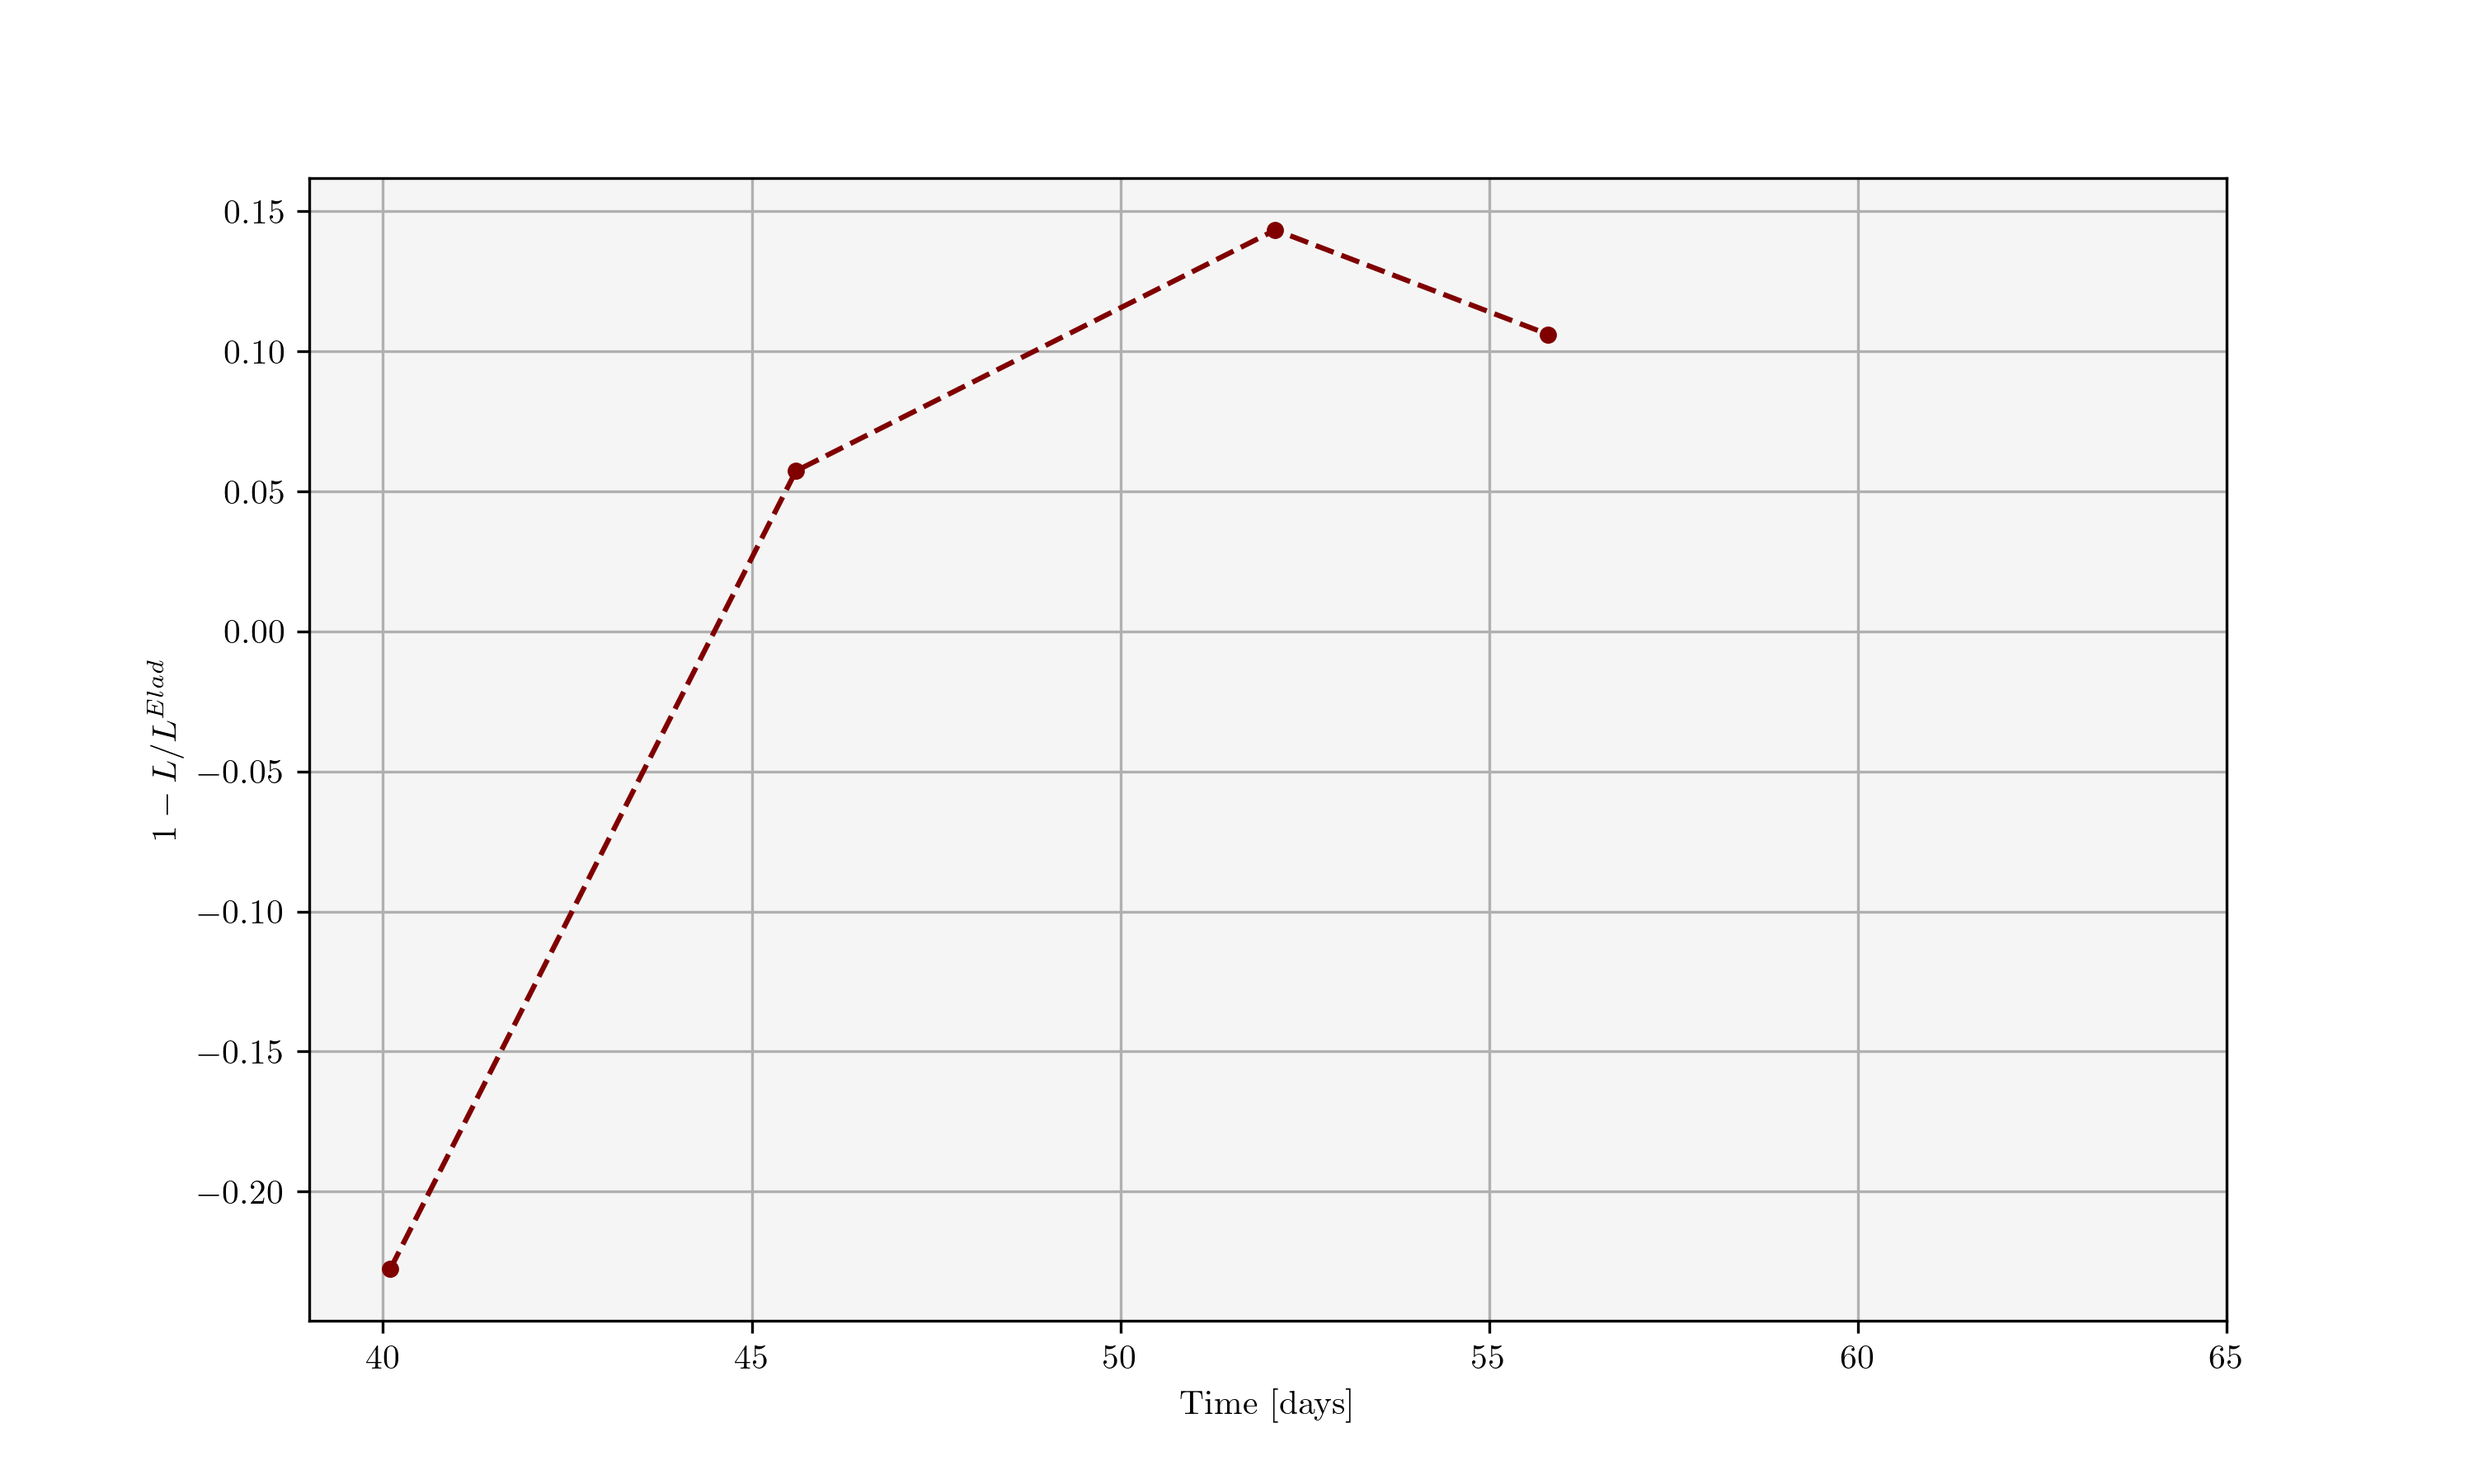
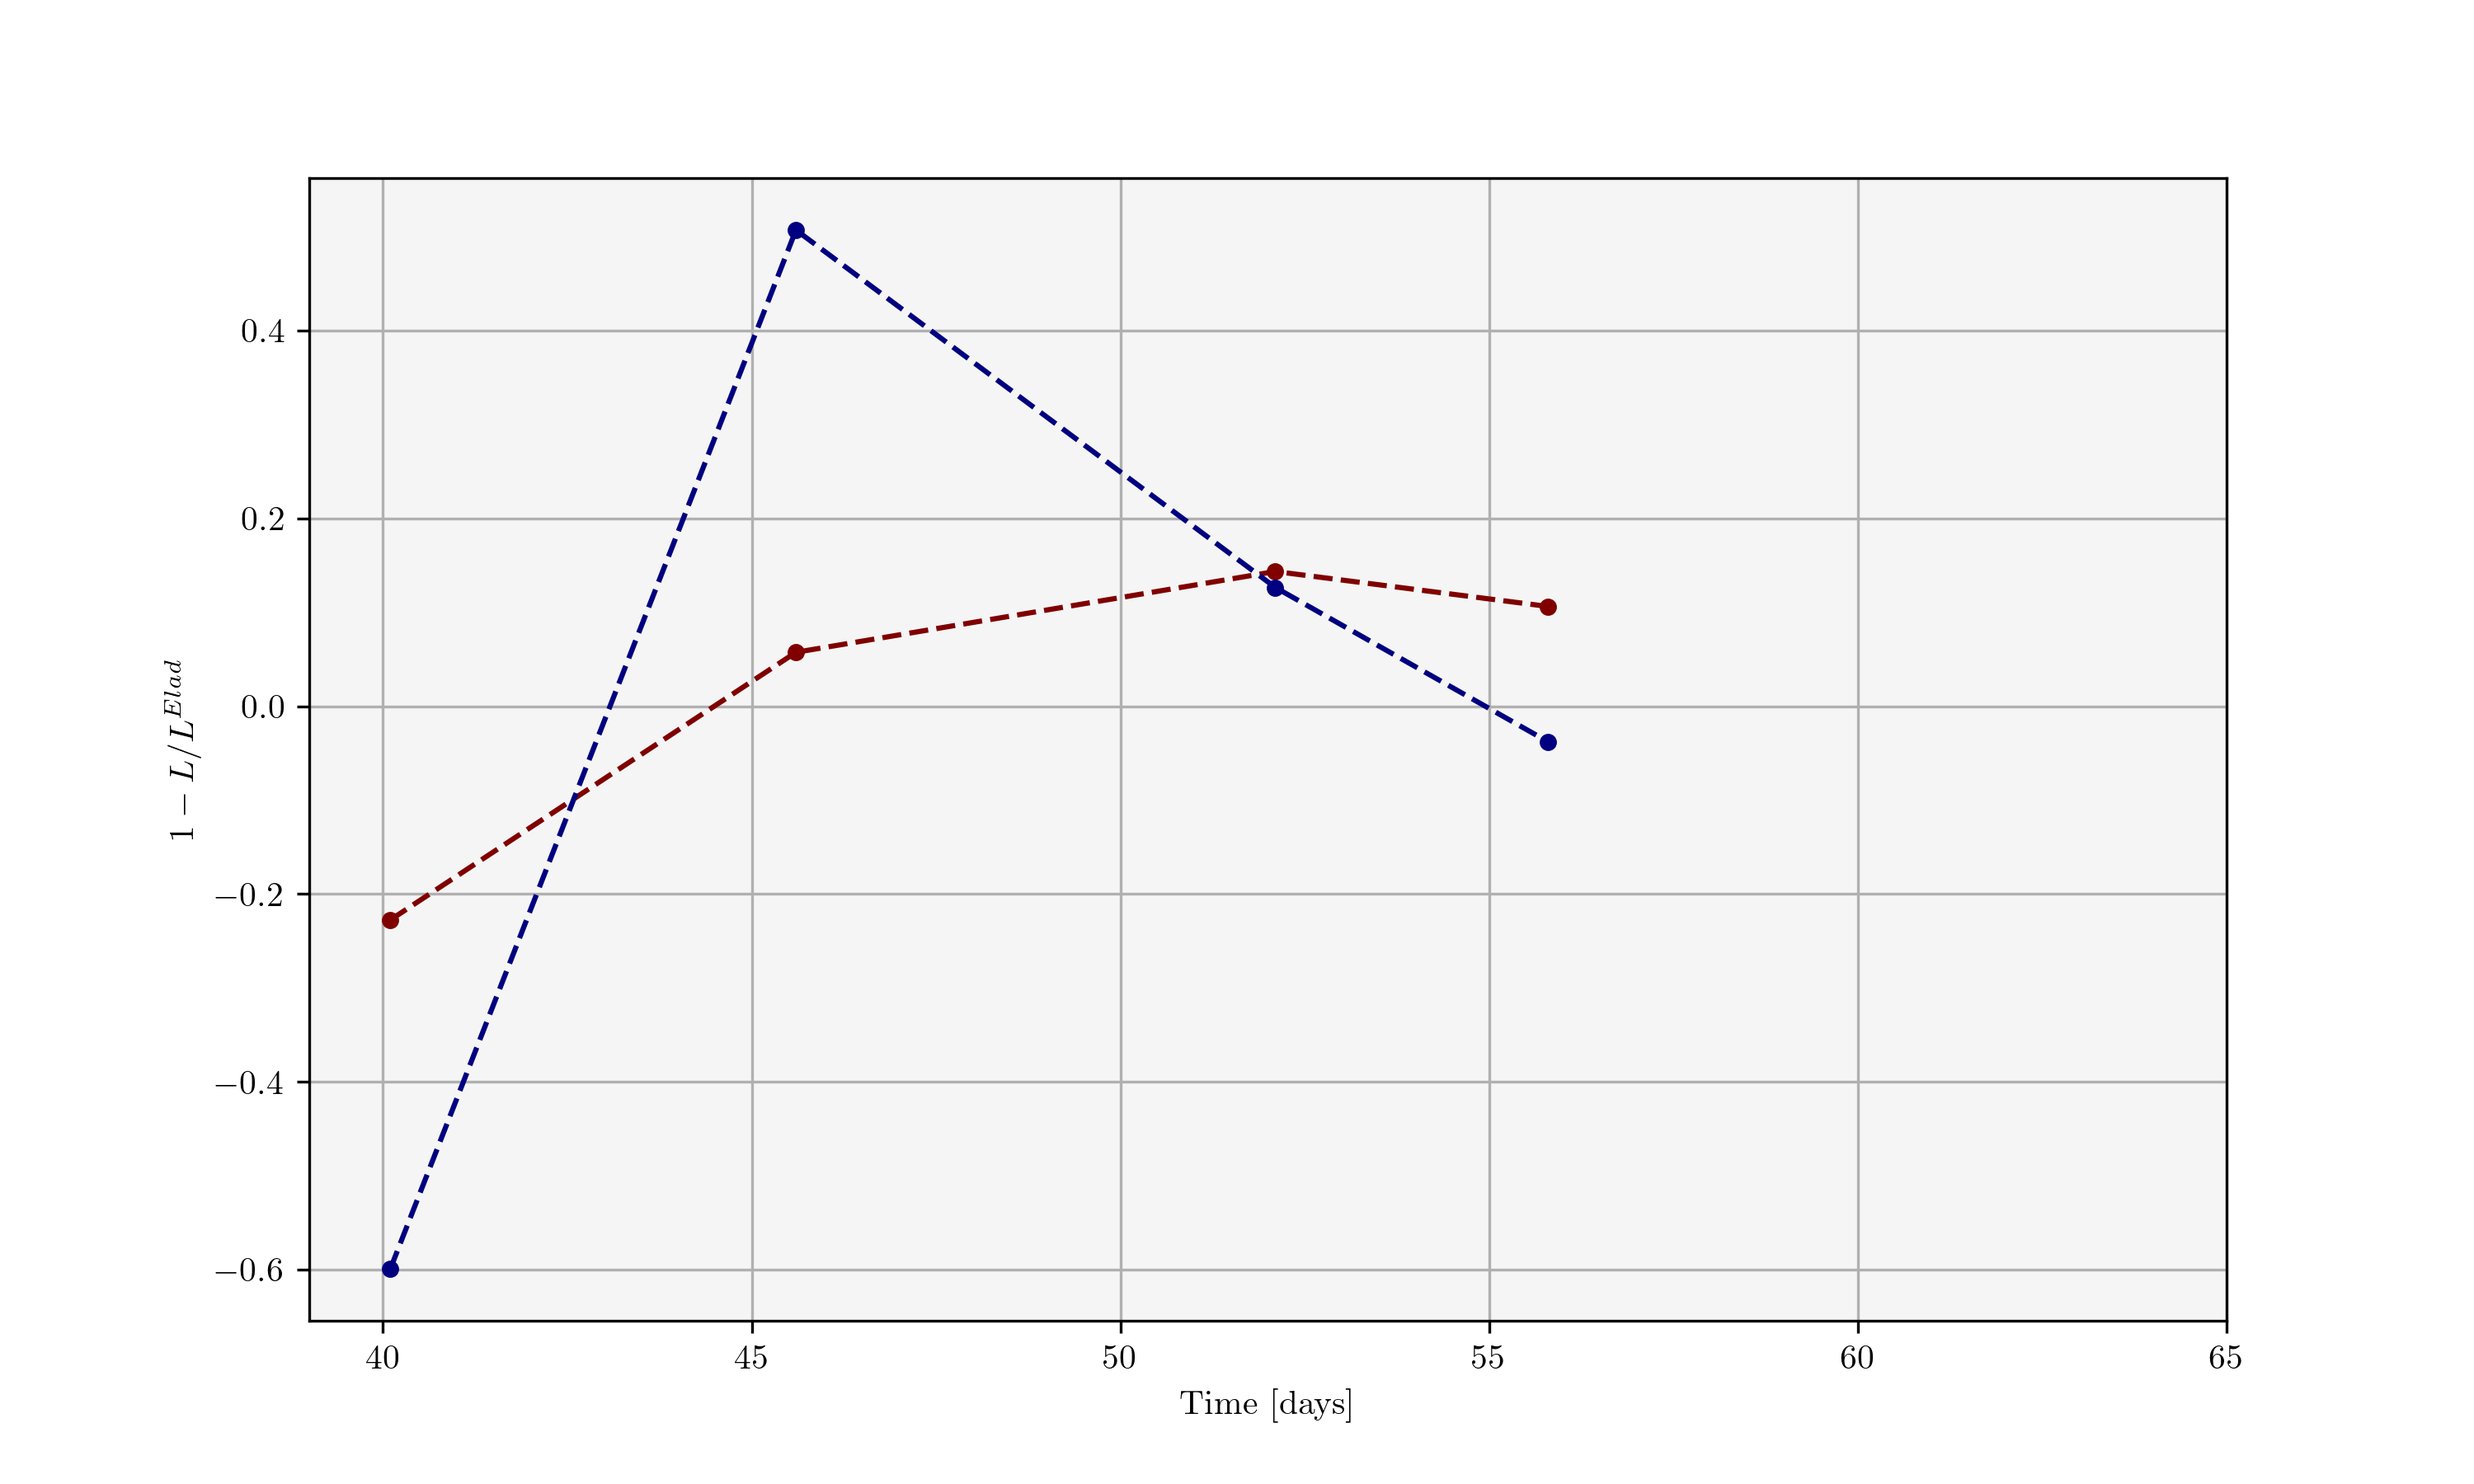
prettier fix for saving in folders

diff --git a/src/Plotting/Light-Curves/comparison_with_elad.py b/src/Plotting/Light-Curves/comparison_with_elad.py
@@ -15,7 +15,7 @@ plt.rcParams['text.usetex'] = True
 plt.rcParams['figure.dpi'] = 300
 plt.rcParams['font.family'] = 'Times New Roman'
 plt.rcParams['figure.figsize'] = [10 , 6]
-plt.rcParams['axes.facecolor']= 	'whitesmoke'
+plt.rcParams['axes.facecolor'] = 'whitesmoke'
 
 plot_curves = True
 residuals = True
@@ -31,6 +31,7 @@ if plot_curves:
     elad_blue = mat['L_bb']
     elad_red = mat['L_fld']
     elad_red_topolt = np.power(10, elad_red[0])
+    elad_blue_topolt = np.power(10, elad_blue[0])
 
     # Ours Load
     fld_data = np.loadtxt('data/red/reddata_m'+ str(m) + check + '.txt')
@@ -39,7 +40,7 @@ if plot_curves:
 
     # Elad Plot
     plt.plot(elad_time[0], elad_red_topolt, c = 'r')
-    plt.plot(elad_time[0], np.power(10, elad_blue[0]), c = 'b')
+    plt.plot(elad_time[0],elad_blue_topolt, c = 'b')
 
     # Our plot
     days = fld_data[0]
@@ -56,12 +57,15 @@ if plot_curves:
     plt.show()
 
     if residuals:
-        y_value = np.zeros(len(days40))
+        y_value_r = np.zeros(len(days40))
+        y_value_b = np.zeros(len(days40))
         for i, day in enumerate(days40):
-            y_index = np.argmin(np.abs(days40[i]-elad_time[0]))
-            y_value[i] = (elad_red_topolt[y_index] - fld_data[1][i]) / elad_red_topolt[y_index]
+            y_index = np.argmin(np.abs(days40[i] - elad_time[0]))
+            y_value_r[i] = (elad_red_topolt[y_index] - fld_data[1][i]) / elad_red_topolt[y_index]
+            y_value_b[i] = (elad_blue_topolt[y_index] - b[i]) / elad_blue_topolt[y_index]
 
-        plt.plot(days40, y_value, '--o', c='maroon', markersize = 4)
+        plt.plot(days40, y_value_r, '--o', c='maroon', markersize = 4)
+        plt.plot(days40, y_value_b, '--o', c='navy', markersize = 4)
         plt.grid()
         plt.xlim(39, 65)
         plt.xlabel('Time [days]')

diff --git a/src/Luminosity/blackbody_tree.py b/src/Luminosity/blackbody_tree.py
@@ -117,7 +117,7 @@ if __name__ == "__main__":
 
     # Save frequency range
     if save:
-        with open('data/frequencies_m'+ str(m) + '.txt', 'w') as f:
+        with open('data/blue/frequencies_m'+ str(m) + '.txt', 'w') as f:
             f.write('# exponents x of frequencies: n = 10^x  \n')
             f.write(' '.join(map(str, x_arr)) + '\n') 
             f.close()
@@ -193,13 +193,13 @@ if __name__ == "__main__":
         # Save data and plot
         if save:
             # Bolometric
-            with open('data/L_tilda_bolom_m' + str(m) + '.txt', 'a') as fbolo:
+            with open('data/blue/L_tilda_bolom_m' + str(m) + '.txt', 'a') as fbolo:
                 fbolo.write('#snap '+ str(snap) + '\n')
                 fbolo.write(bolom + '\n')
                 fbolo.close()
                 
             # Spectrum
-            with open('data/L_tilda_spectrum_m'+ str(m) + '.txt', 'a') as f:
+            with open('data/blue/L_tilda_spectrum_m'+ str(m) + '.txt', 'a') as f:
                 f.write('#snap '+ str(snap) + ' L_tilde_n \n')
                 f.write(' '.join(map(str, lum_tilde_n)) + '\n')
                 f.close()    

diff --git a/src/Luminosity/fit.py b/src/Luminosity/fit.py
@@ -51,8 +51,8 @@ if __name__ == '__main__':
 
     # Load & Unpack
     snapshots, days = select_snap(m, check)
-    x = np.loadtxt('data/frequencies_m' + str(m) + '.txt') # x = logν
-    data = np.loadtxt('data/L_tilda_spectrum_m' + str(m) + '.txt')
+    x = np.loadtxt('data/blue/frequencies_m' + str(m) + '.txt') # x = logν
+    data = np.loadtxt('data/blue/L_tilda_spectrum_m' + str(m) + '.txt')
 
     freqs = np.power(10, x)
     init_R = 1e12
@@ -87,7 +87,7 @@ if __name__ == '__main__':
             Blue[i]= b
             
         if save:
-           with open('data/bluedata_m' + str(m) + '.txt', 'w') as f:
+           with open('data/blue/bluedata_m' + str(m) + '.txt', 'w') as f:
                 f.write('# Fitted quantities for snapshots '+ str(snapshots) + '\n#Temperature \n')
                 f.write(' '.join(map(str, temp)) + '\n')
                 f.write('# Radius \n')
